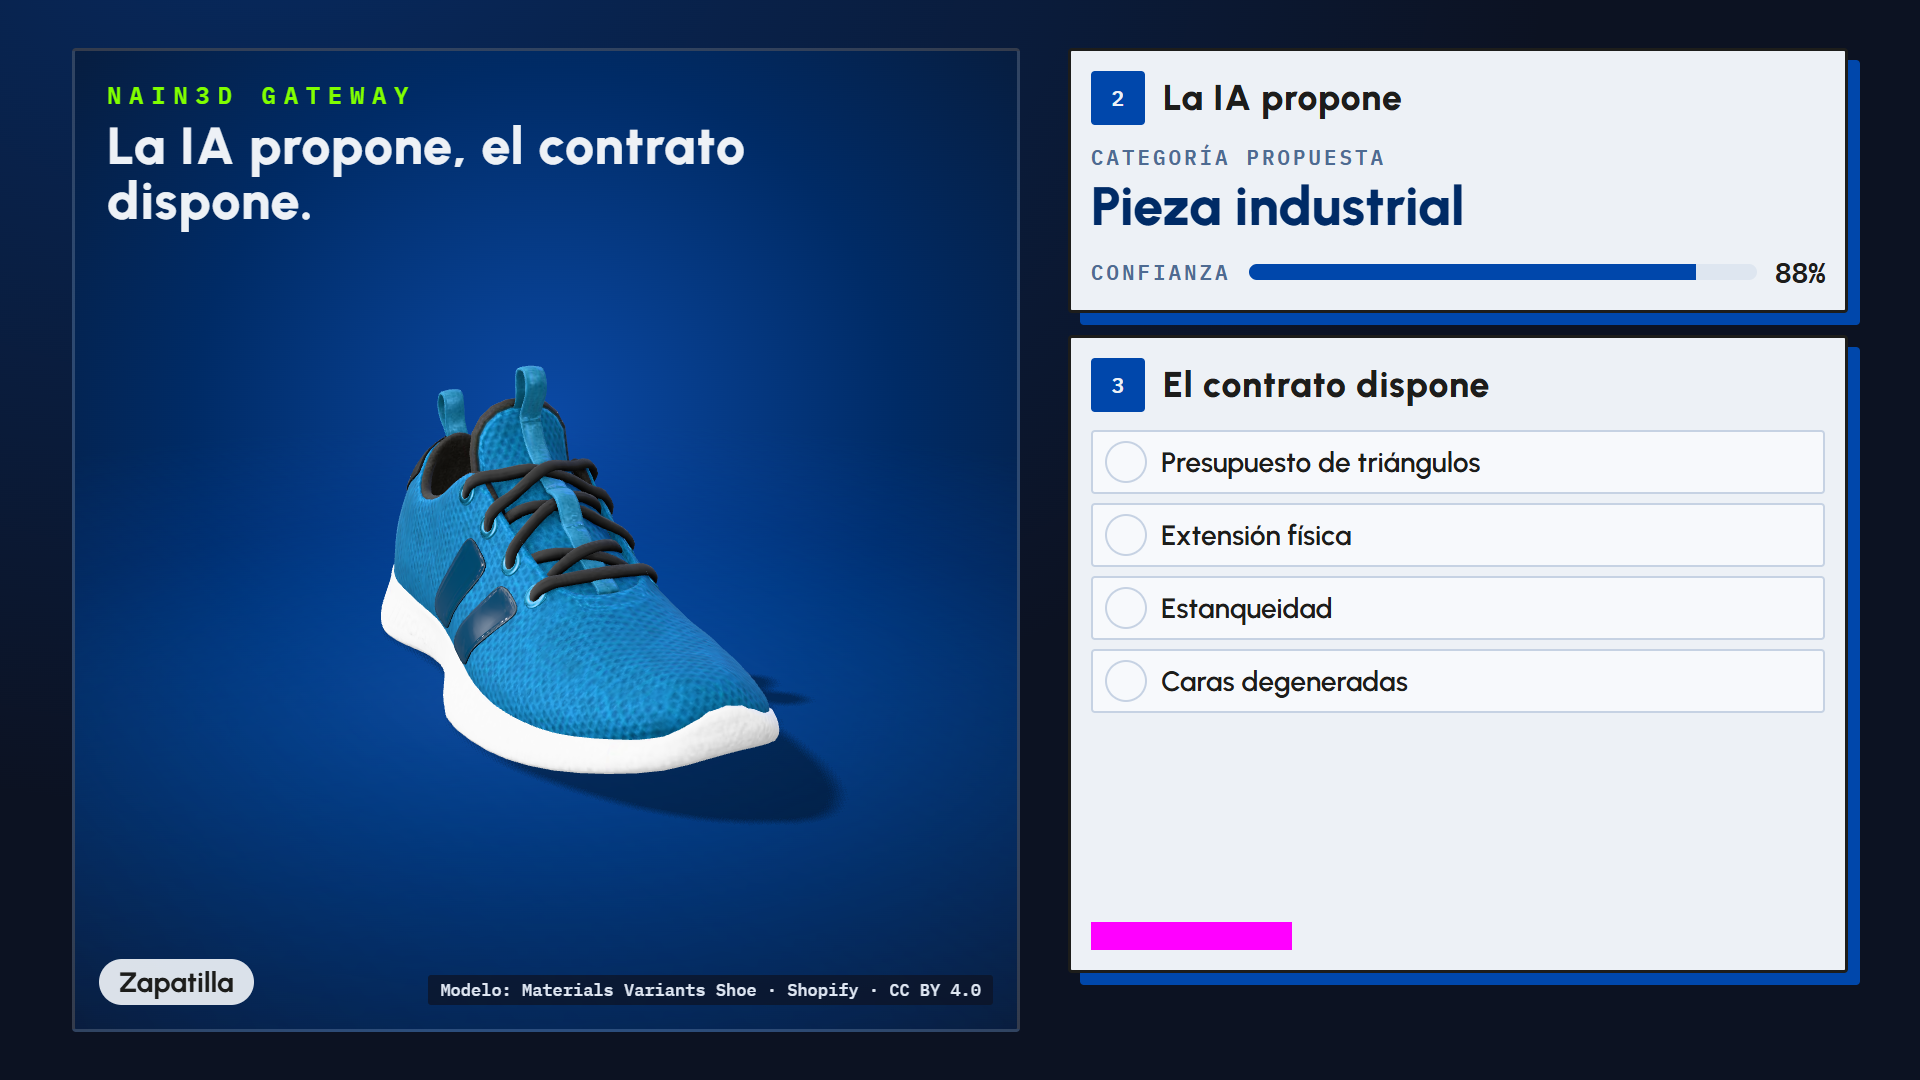
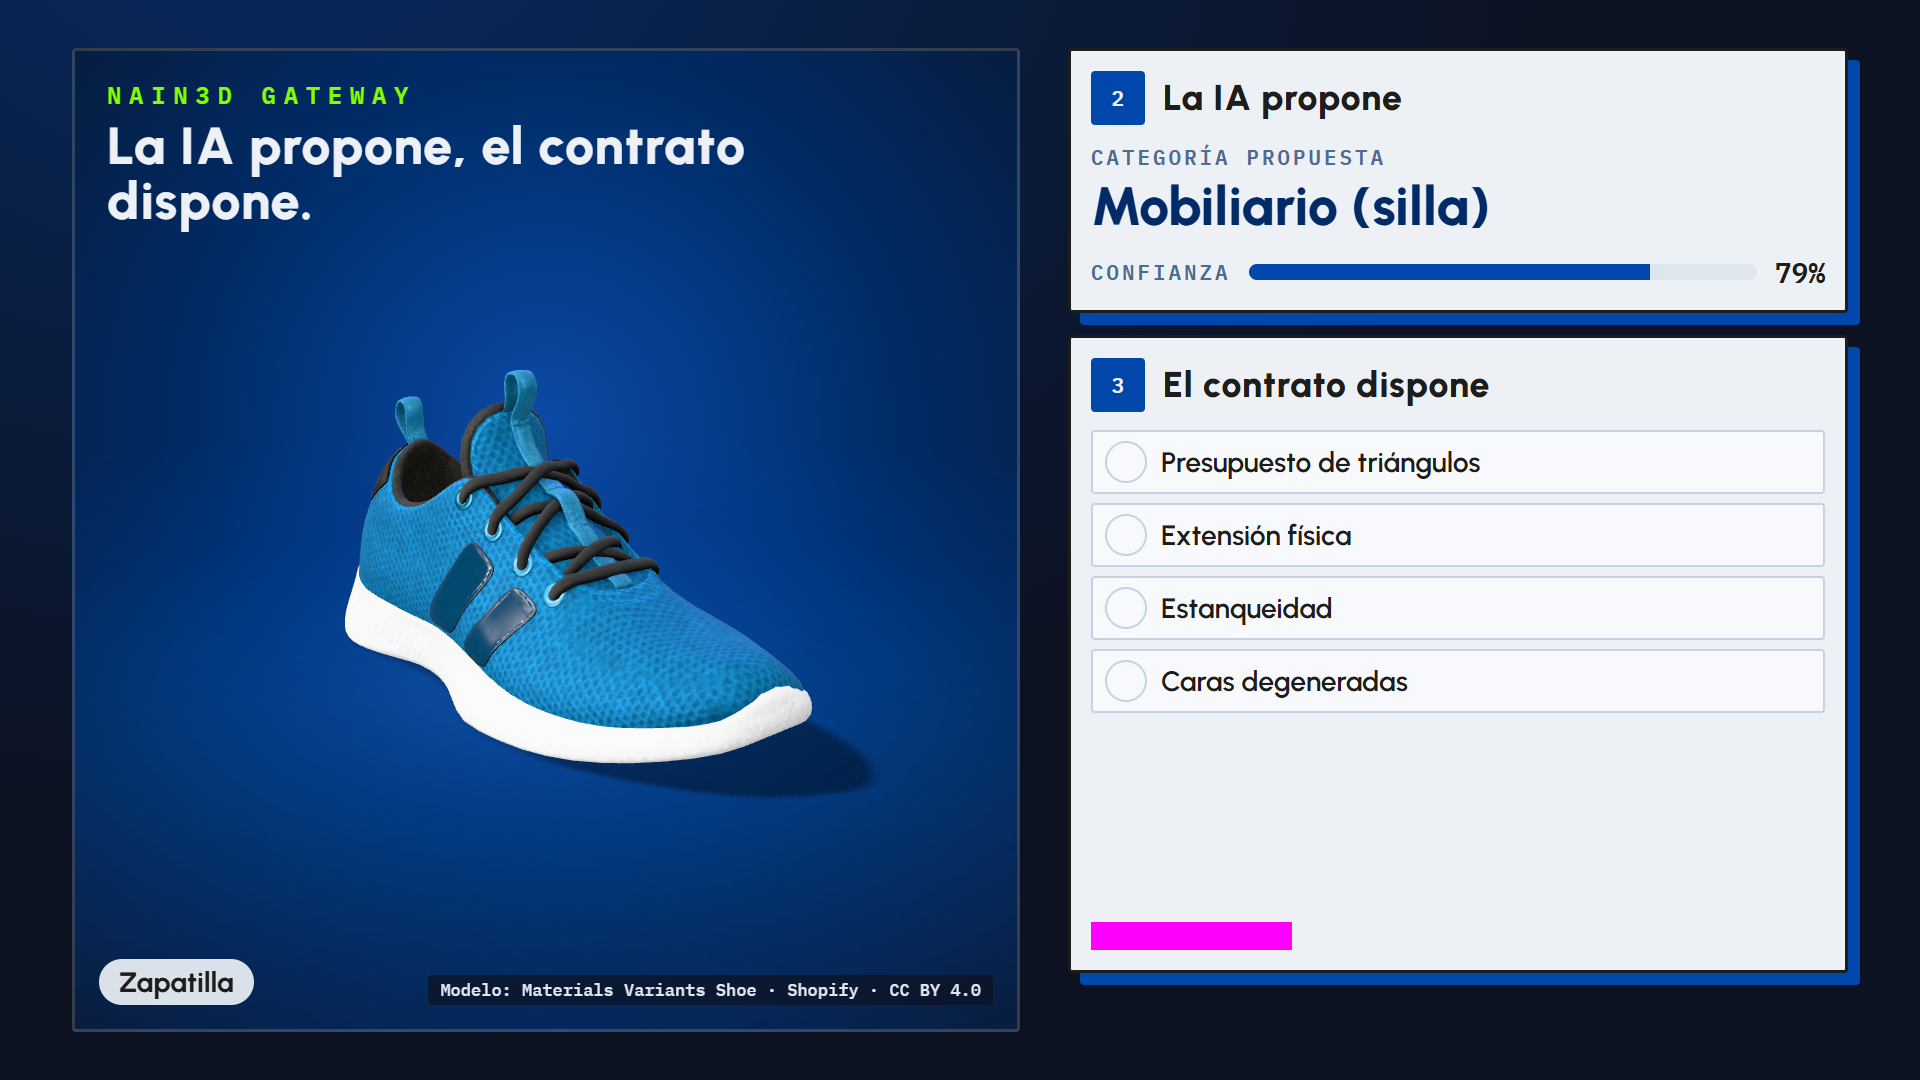
feat(client): export the recording as an MP4 and frame wide models properly
Add npm run record:video: it renders the recording sequence offline, frame by
frame with the manual clock, and encodes it with ffmpeg (vertical or
horizontal, Spanish or English, any frame rate). The video is identical on
every run and never drops frames.

Fit the camera to the framed box (height against the vertical field of view,
horizontal diagonal against the horizontal one) instead of a bounding sphere,
narrow the recording sweep and show fewer ruler marks, so a long, low model
such as the giant sneaker fills a 9:16 frame without clipping or clutter.
Fix the stale capture that showed the closing card instead of the second
verdict, and refresh the captures. Ignore the out/ folder.

Changed region(s): [[0.1562, 0.3361, 0.4688, 0.7639], [0.5625, 0.1528, 0.7812, 0.2139], [0.8438, 0.2444, 0.9375, 0.275]]

diff --git a/Nain3D.Client/src/scene/stage.ts b/Nain3D.Client/src/scene/stage.ts
@@ -121,6 +121,7 @@ export class Stage {
   private overlay: ScaleOverlay | null = null;
   private bounds = new Box3();
   private frameRadius = 1;
+  private frameSize = new Vector3(1, 1, 1);
   private target = new Vector3();
   private autoRotate: boolean;
   private rafId = 0;
@@ -284,7 +285,7 @@ export class Stage {
   private placeCameraFromTime(): void {
     // Slow ease-in-out sweep: deterministic, readable on a phone, never a full spin.
     const seconds = this.timeMs / 1000;
-    const sweep = this.options.reducedMotion ? 0 : Math.sin(seconds * 0.45) * 0.9;
+    const sweep = this.options.reducedMotion ? 0 : Math.sin(seconds * 0.45) * 0.5;
     const azimuth = this.baseAzimuth + sweep;
     const elevation = 0.28;
     const distance = this.fitDistance();
@@ -297,10 +298,19 @@ export class Stage {
     this.camera.updateMatrixWorld();
   }
 
+  /**
+   * Distance that keeps the framed box on screen from any azimuth. Height is fitted against the vertical field of
+   * view and the horizontal diagonal against the horizontal one, so a long, low model (or a tall phone frame)
+   * is not shrunk by a bounding sphere.
+   */
   private fitDistance(): number {
     const vFov = (this.camera.fov * Math.PI) / 180;
     const hFov = 2 * Math.atan(Math.tan(vFov / 2) * this.camera.aspect);
-    return (this.frameRadius / Math.sin(Math.min(vFov, hFov) / 2)) * 1.05;
+    const halfHeight = this.frameSize.y / 2;
+    const halfDiagonal = Math.hypot(this.frameSize.x, this.frameSize.z) / 2;
+    // The near end of a deep object is closer to the lens than its centre, so add half the horizontal radius.
+    const distance = Math.max(halfHeight / Math.tan(vFov / 2), halfDiagonal / Math.tan(hFov / 2)) + halfDiagonal;
+    return distance * 1.1;
   }
 
   private resize(): void {
@@ -326,6 +336,7 @@ export class Stage {
     }
     this.target = box.getCenter(new Vector3());
     const size = box.getSize(new Vector3());
+    this.frameSize = size.clone();
     this.frameRadius = Math.max(0.2, size.length() / 2);
 
     const floorY = this.bounds.min.y;

diff --git a/Nain3D.Client/src/App.vue b/Nain3D.Client/src/App.vue
@@ -8,7 +8,7 @@ import { shouldUseBackend } from './services/backend';
 import { MAX_UPLOAD_BYTES, validateUpload } from './upload/validateUpload';
 import { creditLine } from './samples/catalog';
 import { parseUrlState, type SampleId } from './state/urlState';
-import { RECORD_SEQUENCE, recordStateAt, revealStateAt } from './timeline';
+import { frameCount, RECORD_SEQUENCE, recordStateAt, revealStateAt } from './timeline';
 import { buildScaleOverlay } from './scene/overlay';
 import { useClock } from './composables/useClock';
 import { useReducedMotion } from './composables/useReducedMotion';
@@ -191,6 +191,7 @@ onMounted(async () => {
   (window as unknown as { __nain: unknown }).__nain = {
     advance: (ms: number) => clock.advance(ms),
     now: () => clock.now.value,
+    frameCount,
   };
   if (!isRecord) clock.start();
   const first: SampleId = urlState.sample ?? (urlState.sequence ? RECORD_SEQUENCE[0].sampleId : HERO_CONFORMANT);

diff --git a/Nain3D.Client/src/timeline.test.ts b/Nain3D.Client/src/timeline.test.ts
@@ -1,5 +1,5 @@
 import { describe, expect, it } from 'vitest';
-import { RECORD_END_CARD_AT, RECORD_SEQUENCE, RECORD_TOTAL_MS, recordStateAt, revealDuration, revealStateAt } from './timeline';
+import { frameCount, RECORD_END_CARD_AT, RECORD_SEQUENCE, RECORD_TOTAL_MS, recordStateAt, revealDuration, revealStateAt } from './timeline';
 
 describe('revealStateAt', () => {
   it('starts empty', () => {
@@ -38,6 +38,18 @@ describe('revealStateAt', () => {
       latencyProgress: 1,
       done: true,
     });
+  });
+});
+
+describe('frameCount', () => {
+  it('gives one frame per tick for the whole recording', () => {
+    expect(frameCount(30)).toBe(600);
+    expect(frameCount(24)).toBe(480);
+    expect(frameCount(30, 1000)).toBe(30);
+  });
+
+  it('rounds up so the last moment is always rendered', () => {
+    expect(frameCount(30, 1010)).toBe(31);
   });
 });
 

diff --git a/Nain3D.Client/src/scene/overlay.ts b/Nain3D.Client/src/scene/overlay.ts
@@ -24,7 +24,7 @@ export function buildScaleOverlay(evaluation: EvaluationResult): ScaleOverlay {
   const limit = evaluation.applied_profile.max_dimension_m;
   // The ruler is vertical, so it only needs to reach the taller of the model and the limit box.
   const span = Math.max(limit, extents[1]);
-  const tickStep = NICE_STEPS.find((step) => span / step <= 8) ?? NICE_STEPS[NICE_STEPS.length - 1];
+  const tickStep = NICE_STEPS.find((step) => span / step <= 5) ?? NICE_STEPS[NICE_STEPS.length - 1];
   const count = Math.max(1, Math.ceil(span / tickStep - 1e-9));
   const ticks = Array.from({ length: count }, (_, i) => Math.round((i + 1) * tickStep * 1000) / 1000);
   return { extents, limit, exceeds: !check || !check.passed, tickStep, ticks };

diff --git a/Nain3D.Client/e2e/captures.spec.ts b/Nain3D.Client/e2e/captures.spec.ts
@@ -59,7 +59,7 @@ for (const lang of ['es', 'en'] as const) {
         await shot(page, `record-${format}-${lang}-3-conformant`);
         await advance(page, 4000); // t = 10.4 s: second segment started
         await expect(page.locator('.app')).toHaveAttribute('data-ready', 'true', { timeout: 60_000 });
-        await advance(page, 5200);
+        await advance(page, 1600); // t = 12 s: second verdict visible, closing card (15 s) not yet shown
         await shot(page, `record-${format}-${lang}-4-non-conformant`);
         await advance(page, 4000);
         await shot(page, `record-${format}-${lang}-5-end-card`);

diff --git a/Nain3D.Client/src/timeline.ts b/Nain3D.Client/src/timeline.ts
@@ -62,6 +62,11 @@ export const RECORD_SEQUENCE: readonly RecordSegment[] = [
 export const RECORD_END_CARD_AT = 15000;
 export const RECORD_TOTAL_MS = 20000;
 
+/** Frames needed to render `durationMs` of the recording at `fps` (offline video export). */
+export function frameCount(fps: number, durationMs: number = RECORD_TOTAL_MS): number {
+  return Math.ceil((durationMs / 1000) * fps);
+}
+
 export interface RecordState {
   index: number;
   localMs: number;

diff --git a/docs/demo-recording-script.md b/docs/demo-recording-script.md
@@ -45,6 +45,15 @@ The limit shown (3 m) depends on the category the engine proposes; any category 
 5. Repeat with `&lang=en` for the English take, or reuse the Spanish video and add English subtitles.
 6. Do not move the mouse over the page: the cursor is hidden and nothing depends on hover.
 
+## Export the video without screen recording
+
+`npm --prefix Nain3D.Client run record:video -- --format vertical --lang es` renders the 20 s sequence frame
+by frame with the manual clock and encodes it with ffmpeg (30 fps, H.264, `out/nain3d-vertical-es.mp4`, ignored
+by git). Options: `--format vertical|horizontal`, `--lang es|en`, `--fps`, `--seconds` (render only the first
+seconds), `--url` (default `http://localhost:5376`, so run `npm run build` and `npx vite preview --port 5376`
+first). The result is identical on every run and never drops frames; it takes about five minutes with software
+WebGL. The latency counter shows the evaluation time of that run.
+
 ## Safe zones (9:16)
 
 Key content stays inside 1080x1920 minus **230 px top** and **340 px bottom** (platform UI), with

diff --git a/docs/changelog.md b/docs/changelog.md
@@ -1,5 +1,10 @@
 # Changelog
 
+## Unreleased — Video export
+
+- `npm run record:video`: renders the recording sequence offline, frame by frame with the manual clock, into an
+  MP4 (vertical or horizontal, Spanish or English, any frame rate). Deterministic and free of dropped frames.
+
 ## Unreleased — Case study
 
 - `docs/case-study.md`: the problem, the fail-closed rule, architecture, decisions with their ADRs, evidence and
